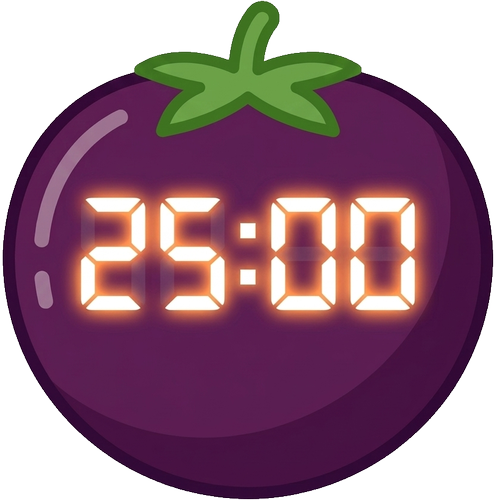
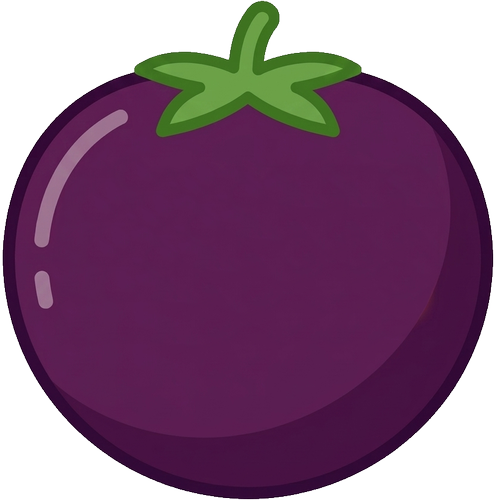
Add new window features and update resources for improved UI

Changed region(s): [[0.12, 0.36, 0.87, 0.66]]

diff --git a/MainWindow.xaml b/MainWindow.xaml
@@ -3,10 +3,13 @@
         xmlns:x="http://schemas.microsoft.com/winfx/2006/xaml"
         Title="Pomodoro Timer"
         Icon="/Assets/32.ico"
-        Height="400" Width="330"
-        MinHeight="400" MinWidth="330"
-        Background="#12122A"
-        ResizeMode="CanMinimize"
+    Height="500" Width="500"
+    MinHeight="500" MinWidth="500"
+    MaxHeight="500" MaxWidth="500"
+    Background="Transparent"
+    AllowsTransparency="True"
+    WindowStyle="None"
+    ResizeMode="NoResize"
         WindowStartupLocation="CenterScreen"
         FontFamily="Segoe UI"
         Closing="Window_Closing">
@@ -17,9 +20,9 @@
 
         <!-- Rounded action button style -->
         <Style x:Key="ActionButton" TargetType="Button">
-            <Setter Property="Background" Value="#1E1E40"/>
-            <Setter Property="Foreground" Value="#C0C8D8"/>
-            <Setter Property="BorderBrush" Value="#2A2A60"/>
+            <Setter Property="Background" Value="#AA2A1D48"/>
+            <Setter Property="Foreground" Value="#FFEAD8FF"/>
+            <Setter Property="BorderBrush" Value="#66FFD27A"/>
             <Setter Property="BorderThickness" Value="1"/>
             <Setter Property="FontFamily" Value="Segoe UI"/>
             <Setter Property="FontSize" Value="13"/>
@@ -37,12 +40,12 @@
                         </Border>
                         <ControlTemplate.Triggers>
                             <Trigger Property="IsMouseOver" Value="True">
-                                <Setter TargetName="Root" Property="Background" Value="#2A2A68"/>
-                                <Setter TargetName="Root" Property="BorderBrush" Value="#4444AA"/>
+                                <Setter TargetName="Root" Property="Background" Value="#CC4D2776"/>
+                                <Setter TargetName="Root" Property="BorderBrush" Value="#88FFE38F"/>
                             </Trigger>
                             <Trigger Property="IsPressed" Value="True">
-                                <Setter TargetName="Root" Property="Background" Value="#E94560"/>
-                                <Setter TargetName="Root" Property="BorderBrush" Value="#E94560"/>
+                                <Setter TargetName="Root" Property="Background" Value="#CC9C2D4C"/>
+                                <Setter TargetName="Root" Property="BorderBrush" Value="#88FFD27A"/>
                             </Trigger>
                             <Trigger Property="IsEnabled" Value="False">
                                 <Setter Property="Opacity" Value="0.35"/>
@@ -58,14 +61,14 @@
             <Setter Property="Height" Value="30"/>
             <Setter Property="Width" Value="70"/>
             <Setter Property="FontSize" Value="12"/>
-            <Setter Property="Foreground" Value="#7BA7D8"/>
+            <Setter Property="Foreground" Value="#FFD7F0FF"/>
         </Style>
 
         <!-- Arrow RepeatButton style -->
         <Style x:Key="ArrowButton" TargetType="RepeatButton">
-            <Setter Property="Background" Value="#1E1E40"/>
-            <Setter Property="Foreground" Value="#7BA7D8"/>
-            <Setter Property="BorderBrush" Value="#2A2A60"/>
+            <Setter Property="Background" Value="#AA2A1D48"/>
+            <Setter Property="Foreground" Value="#FFD7F0FF"/>
+            <Setter Property="BorderBrush" Value="#66FFD27A"/>
             <Setter Property="BorderThickness" Value="1"/>
             <Setter Property="Width" Value="34"/>
             <Setter Property="Height" Value="28"/>
@@ -84,10 +87,10 @@
                         </Border>
                         <ControlTemplate.Triggers>
                             <Trigger Property="IsMouseOver" Value="True">
-                                <Setter TargetName="Root" Property="Background" Value="#2A2A68"/>
+                                <Setter TargetName="Root" Property="Background" Value="#CC4D2776"/>
                             </Trigger>
                             <Trigger Property="IsPressed" Value="True">
-                                <Setter TargetName="Root" Property="Background" Value="#E94560"/>
+                                <Setter TargetName="Root" Property="Background" Value="#CC9C2D4C"/>
                             </Trigger>
                             <Trigger Property="IsEnabled" Value="False">
                                 <Setter Property="Opacity" Value="0.35"/>
@@ -97,133 +100,161 @@
                 </Setter.Value>
             </Setter>
         </Style>
+
+        <Style x:Key="WindowChromeButton" TargetType="Button" BasedOn="{StaticResource ActionButton}">
+            <Setter Property="Width" Value="30"/>
+            <Setter Property="Height" Value="30"/>
+            <Setter Property="FontSize" Value="12"/>
+            <Setter Property="Padding" Value="0"/>
+            <Setter Property="Margin" Value="0,0,4,0"/>
+        </Style>
     </Window.Resources>
 
-    <Grid Margin="10,14,10,18">
-        <Grid.RowDefinitions>
-            <RowDefinition Height="Auto"/>   <!-- Top bar -->
-            <RowDefinition Height="Auto"/>   <!-- Digital display -->
-            <RowDefinition Height="12"/>     <!-- Spacer -->
-            <RowDefinition Height="Auto"/>   <!-- Presets -->
-            <RowDefinition Height="12"/>     <!-- Spacer -->
-            <RowDefinition Height="Auto"/>   <!-- Control buttons -->
-        </Grid.RowDefinitions>
+    <Grid>
+        <Image Source="/Assets/Pom500x500.png" Stretch="Fill"/>
 
-        <!-- ── Top bar ── -->
-        <Grid Grid.Row="0" Margin="0,0,0,10">
-            <TextBlock Text="POMODORO TIMER"
-                       Foreground="#3A3A6A"
-                       FontSize="11" FontWeight="Bold"
-                       VerticalAlignment="Center"
-                       HorizontalAlignment="Left"/>
-            <Button x:Name="BtnSettings"
-                    Style="{StaticResource ActionButton}"
-                    Content="⚙" FontSize="15"
-                    Width="34" Height="34"
-                    HorizontalAlignment="Right"
-                    ToolTip="Настройки"
-                    Click="BtnSettings_Click"/>
-        </Grid>
+        <Grid Margin="70,58,70,56">
+            <Grid.RowDefinitions>
+                <RowDefinition Height="Auto"/>
+                <RowDefinition Height="Auto"/>
+                <RowDefinition Height="12"/>
+                <RowDefinition Height="Auto"/>
+                <RowDefinition Height="12"/>
+                <RowDefinition Height="Auto"/>
+            </Grid.RowDefinitions>
 
-        <!-- ── Digital display panel ── -->
-        <Border Grid.Row="1"
-                Background="#0A0A1A"
-                CornerRadius="14"
-                BorderBrush="#1E1E50"
-                BorderThickness="1"
-                Padding="02,18,02,14">
-            <StackPanel>
+            <Grid Grid.Row="0" Margin="0,0,0,10">
+                <TextBlock Text="POMODORO TIMER"
+                           Foreground="#6b576d"
+                           FontSize="12"
+                           FontWeight="Bold"
+                           VerticalAlignment="Center"
+                           HorizontalAlignment="Left"
+                           Margin="-70,0,0,0"/>
 
-                <!-- MM:SS display -->
-                <TextBlock x:Name="TbDisplay"
-                           Text="00:00"
-                           FontFamily="{StaticResource DigitalFont}"
-                           FontSize="82"
-                           Foreground="#00E87A"
-                           HorizontalAlignment="Center">
-                    <TextBlock.Effect>
-                        <DropShadowEffect Color="#00E87A" BlurRadius="18"
-                                          ShadowDepth="0" Opacity="0.55"/>
-                    </TextBlock.Effect>
-                </TextBlock>
+                <Border Background="#01000000"
+                        Height="32"
+                        HorizontalAlignment="Stretch"
+                        VerticalAlignment="Center"
+                        Margin="-70,0,10,0"
+                        MouseLeftButtonDown="DragArea_MouseLeftButtonDown"/>
 
-                <!-- Minute increment/decrement controls -->
-                <StackPanel Orientation="Horizontal"
-                            HorizontalAlignment="Center"
-                            Margin="0,10,0,2">
-                    <RepeatButton x:Name="BtnMinDown"
-                                  Style="{StaticResource ArrowButton}"
-                                  Content="▼"
-                                  Click="BtnMinDown_Click"/>
-                    <TextBlock Text="минуты"
-                               Foreground="#3A4A60"
-                               FontSize="11"
-                               VerticalAlignment="Center"
-                               Margin="12,0"/>
-                    <RepeatButton x:Name="BtnMinUp"
-                                  Style="{StaticResource ArrowButton}"
-                                  Content="▲"
-                                  Click="BtnMinUp_Click"/>
+                <StackPanel Orientation="Horizontal" HorizontalAlignment="Right"
+                            VerticalAlignment="Center" Margin="0,0,-60,0">
+                    <Button x:Name="BtnSettings"
+                            Style="{StaticResource WindowChromeButton}"
+                            Content="⚙"
+                            FontSize="15"
+                            ToolTip="Настройки"
+                            Click="BtnSettings_Click"/>
+                    <Button x:Name="BtnMinimize"
+                            Style="{StaticResource WindowChromeButton}"
+                            Content="_"
+                            ToolTip="Свернуть"
+                            Click="BtnMinimize_Click"/>
+                    <Button x:Name="BtnHide"
+                            Style="{StaticResource WindowChromeButton}"
+                            Content="✕"
+                            Margin="0"
+                            ToolTip="Скрыть в трей"
+                            Click="BtnHide_Click"/>
                 </StackPanel>
+            </Grid>
 
+            <Border Grid.Row="1"
+                    Background="#8C2A1742"
+                    CornerRadius="14"
+                    BorderBrush="#66FFD27A"
+                    BorderThickness="1"
+                    Padding="2,8,2,14"
+                    Margin="0,50,0,0">
+                <StackPanel>
+                    <TextBlock x:Name="TbDisplay"
+                               Text="00:00"
+                               FontFamily="{StaticResource DigitalFont}"
+                               FontSize="82"
+                               Foreground="#FFFFF2CD"
+                               HorizontalAlignment="Center">
+                        <TextBlock.Effect>
+                            <DropShadowEffect Color="#FFFF9D4A" BlurRadius="22"
+                                              ShadowDepth="0" Opacity="0.8"/>
+                        </TextBlock.Effect>
+                    </TextBlock>
+
+                    <StackPanel Orientation="Horizontal"
+                                HorizontalAlignment="Center"
+                                Margin="0,10,0,2">
+                        <RepeatButton x:Name="BtnMinDown"
+                                      Style="{StaticResource ArrowButton}"
+                                      Content="▼"
+                                      Click="BtnMinDown_Click"/>
+                        <TextBlock Text="минуты"
+                                   Foreground="#FFE6D4F8"
+                                   FontSize="11"
+                                   VerticalAlignment="Center"
+                                   Margin="12,0"/>
+                        <RepeatButton x:Name="BtnMinUp"
+                                      Style="{StaticResource ArrowButton}"
+                                      Content="▲"
+                                      Click="BtnMinUp_Click"/>
+                    </StackPanel>
+                </StackPanel>
+            </Border>
+
+            <StackPanel Grid.Row="3" Orientation="Horizontal" HorizontalAlignment="Center">
+                <TextBlock Text="Шаблоны:"
+                           Foreground="#FFE6D4F8"
+                           FontSize="11"
+                           VerticalAlignment="Center"
+                           Margin="0,0,10,0"/>
+                <Button Content="15 мин" Style="{StaticResource PresetButton}"
+                        Click="BtnPreset_Click" Tag="15" Margin="3,0"/>
+                <Button Content="30 мин" Style="{StaticResource PresetButton}"
+                        Click="BtnPreset_Click" Tag="30" Margin="3,0"/>
+                <Button Content="45 мин" Style="{StaticResource PresetButton}"
+                        Click="BtnPreset_Click" Tag="45" Margin="3,0"/>
             </StackPanel>
-        </Border>
 
-        <!-- ── Preset buttons ── -->
-        <StackPanel Grid.Row="3" Orientation="Horizontal" HorizontalAlignment="Center">
-            <TextBlock Text="Шаблоны:"
-                       Foreground="#3A4A60"
-                       FontSize="11"
-                       VerticalAlignment="Center"
-                       Margin="0,0,10,0"/>
-            <Button Content="15 мин" Style="{StaticResource PresetButton}"
-                    Click="BtnPreset_Click" Tag="15" Margin="3,0"/>
-            <Button Content="30 мин" Style="{StaticResource PresetButton}"
-                    Click="BtnPreset_Click" Tag="30" Margin="3,0"/>
-            <Button Content="45 мин" Style="{StaticResource PresetButton}"
-                    Click="BtnPreset_Click" Tag="45" Margin="3,0"/>
-        </StackPanel>
+            <Grid Grid.Row="5">
+                <Grid.ColumnDefinitions>
+                    <ColumnDefinition Width="*"/>
+                    <ColumnDefinition Width="8"/>
+                    <ColumnDefinition Width="*"/>
+                    <ColumnDefinition Width="8"/>
+                    <ColumnDefinition Width="*"/>
+                </Grid.ColumnDefinitions>
 
-        <!-- ── Control buttons ── -->
-        <Grid Grid.Row="5">
-            <Grid.ColumnDefinitions>
-                <ColumnDefinition Width="*"/>
-                <ColumnDefinition Width="8"/>
-                <ColumnDefinition Width="*"/>
-                <ColumnDefinition Width="8"/>
-                <ColumnDefinition Width="*"/>
-            </Grid.ColumnDefinitions>
+                <Button x:Name="BtnStart" Grid.Column="0"
+                        Style="{StaticResource ActionButton}"
+                        Foreground="#FFD3FFAE" FontWeight="SemiBold"
+                        Click="BtnStart_Click">
+                    <StackPanel Orientation="Horizontal">
+                        <TextBlock Text="▶" Margin="0,0,5,0"/>
+                        <TextBlock Text="СТАРТ"/>
+                    </StackPanel>
+                </Button>
 
-            <Button x:Name="BtnStart" Grid.Column="0"
-                    Style="{StaticResource ActionButton}"
-                    Foreground="#00E87A" FontWeight="SemiBold"
-                    Click="BtnStart_Click">
-                <StackPanel Orientation="Horizontal">
-                    <TextBlock Text="▶" Margin="0,0,5,0"/>
-                    <TextBlock Text="СТАРТ"/>
-                </StackPanel>
-            </Button>
+                <Button x:Name="BtnStop" Grid.Column="2"
+                        Style="{StaticResource ActionButton}"
+                        Foreground="#FFFFE0A6" FontWeight="SemiBold"
+                        IsEnabled="False"
+                        Click="BtnStop_Click">
+                    <StackPanel Orientation="Horizontal">
+                        <TextBlock Text="⏸" Margin="0,0,5,0"/>
+                        <TextBlock Text="СТОП"/>
+                    </StackPanel>
+                </Button>
 
-            <Button x:Name="BtnStop" Grid.Column="2"
-                    Style="{StaticResource ActionButton}"
-                    Foreground="#FFD166" FontWeight="SemiBold"
-                    IsEnabled="False"
-                    Click="BtnStop_Click">
-                <StackPanel Orientation="Horizontal">
-                    <TextBlock Text="⏸" Margin="0,0,5,0"/>
-                    <TextBlock Text="СТОП"/>
-                </StackPanel>
-            </Button>
-
-            <Button x:Name="BtnReset" Grid.Column="4"
-                    Style="{StaticResource ActionButton}"
-                    Foreground="#FF6B6B" FontWeight="SemiBold"
-                    Click="BtnReset_Click">
-                <StackPanel Orientation="Horizontal">
-                    <TextBlock Text="↺" Margin="0,0,5,0"/>
-                    <TextBlock Text="СБРОС"/>
-                </StackPanel>
-            </Button>
+                <Button x:Name="BtnReset" Grid.Column="4"
+                        Style="{StaticResource ActionButton}"
+                        Foreground="#FFFFC1C1" FontWeight="SemiBold"
+                        Click="BtnReset_Click">
+                    <StackPanel Orientation="Horizontal">
+                        <TextBlock Text="↺" Margin="0,0,5,0"/>
+                        <TextBlock Text="СБРОС"/>
+                    </StackPanel>
+                </Button>
+            </Grid>
         </Grid>
     </Grid>
 </Window>

diff --git a/MainWindow.xaml.cs b/MainWindow.xaml.cs
@@ -2,6 +2,7 @@
 using System.IO;
 using System.Media;
 using System.Windows;
+using System.Windows.Input;
 using System.Windows.Threading;
 
 namespace PomodoroTimer;
@@ -149,6 +150,24 @@ public partial class MainWindow : Window
     private void BtnSettings_Click(object sender, RoutedEventArgs e)
     {
         ((App)Application.Current).ShowSettings();
+    }
+
+    private void BtnMinimize_Click(object sender, RoutedEventArgs e)
+    {
+        WindowState = WindowState.Minimized;
+    }
+
+    private void BtnHide_Click(object sender, RoutedEventArgs e)
+    {
+        Hide();
+    }
+
+    private void DragArea_MouseLeftButtonDown(object sender, MouseButtonEventArgs e)
+    {
+        if (e.ButtonState == MouseButtonState.Pressed)
+        {
+            DragMove();
+        }
     }
 
     // ─── Sound ────────────────────────────────────────────────────